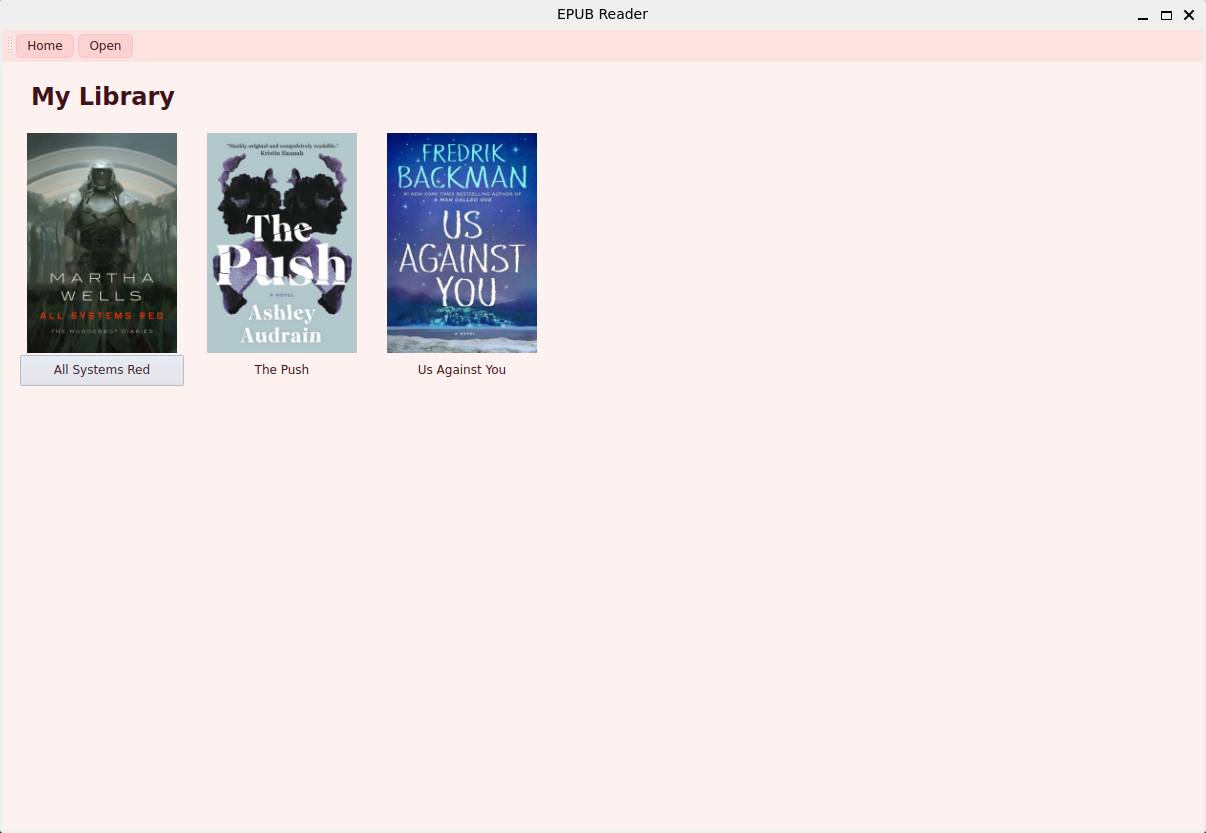
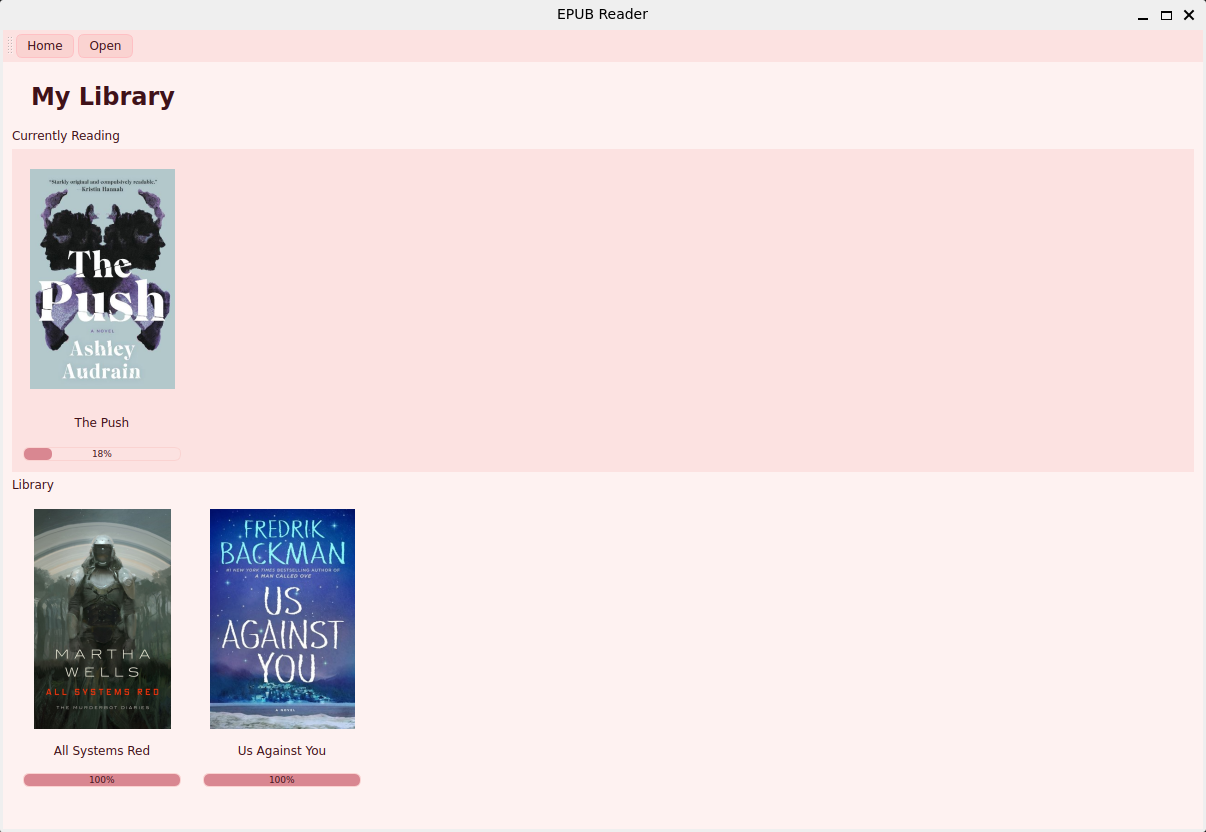
Add currently reading grid

Changed region(s): [[0.0, 0.1562, 0.4602, 0.4688], [0.0307, 0.5938, 0.3068, 0.9688], [0.0, 0.5, 0.1227, 0.5938]]

diff --git a/ui/library.py b/ui/library.py
@@ -67,6 +67,7 @@ class Library:
     def _load_library(self):
         """Populate the library grid with book tiles and progress bars."""
 
+        self.currently_reading_grid.clear()
         self.library_grid.clear()
 
         covers_dir = Path("covers")
@@ -77,8 +78,7 @@ class Library:
             title = book["title"]
             cover_path = book["cover_path"]
             pages_read = book["pages_read"]
-            pages_read = book["pages_read"]
-            total_pages = book["total_pages"]
+            total_pages = book["total_pages"]            
 
             if not cover_path or not Path(cover_path).exists():
                 cover_path = (covers_dir / f"placeholder_{book_id}.png")
@@ -92,6 +92,8 @@ class Library:
                 else 0
             )
             progress = max(0, min(100, progress or 0))
+
+
 
             pages_read = (
                 book["pages_read"]
@@ -110,7 +112,13 @@ class Library:
             item = QListWidgetItem()
             item.setData(Qt.UserRole, book_id)
             item.setSizeHint(QSize(180, 300))
-            self.library_grid.addItem(item)
+            # self.library_grid.addItem(item)
+            if 0 < progress < 100:
+                target = self.currently_reading_grid
+            else:
+                target = self.library_grid
+
+            target.addItem(item)
 
             #
             # Custom book tile
@@ -193,7 +201,7 @@ class Library:
             tile_layout.addWidget(title_label)
             tile_layout.addWidget(progress_bar)
 
-            self.library_grid.setItemWidget(item, tile)
+            target.setItemWidget(item, tile)
 
     def open_book(self):
         """Open a file picker and load the selected EPUB."""

diff --git a/ui/main_window.py b/ui/main_window.py
@@ -98,7 +98,7 @@ class MainWindow(
 
         self._apply_styles()
         self._hide_reader_widgets()
-        
+
         self.stack.setCurrentWidget(self.home_page)
 
     def _create_toolbars(self):
@@ -181,6 +181,7 @@ class MainWindow(
         """)
 
         self.library_grid = QListWidget()
+        self.currently_reading_grid = QListWidget()
 
         self.library_grid.setContextMenuPolicy(Qt.CustomContextMenu)
         self.library_grid.customContextMenuRequested.connect(self.show_library_context_menu)
@@ -209,7 +210,16 @@ class MainWindow(
         """)
 
         self.library_grid.itemDoubleClicked.connect(self.library_book_selected)
+        self.currently_reading_grid.itemDoubleClicked.connect(self.library_book_selected)
 
+        currently_reading_title = QLabel("Currently Reading")
+        home_layout.addWidget(currently_reading_title)
+        home_layout.addWidget(self.currently_reading_grid)
+
+        self.currently_reading_grid.setFlow(QListView.LeftToRight)
+        self.currently_reading_grid.setWrapping(False)
+
+        library_title = QLabel("Library")
         home_layout.addWidget(library_title)
         home_layout.addWidget(self.library_grid)
 
